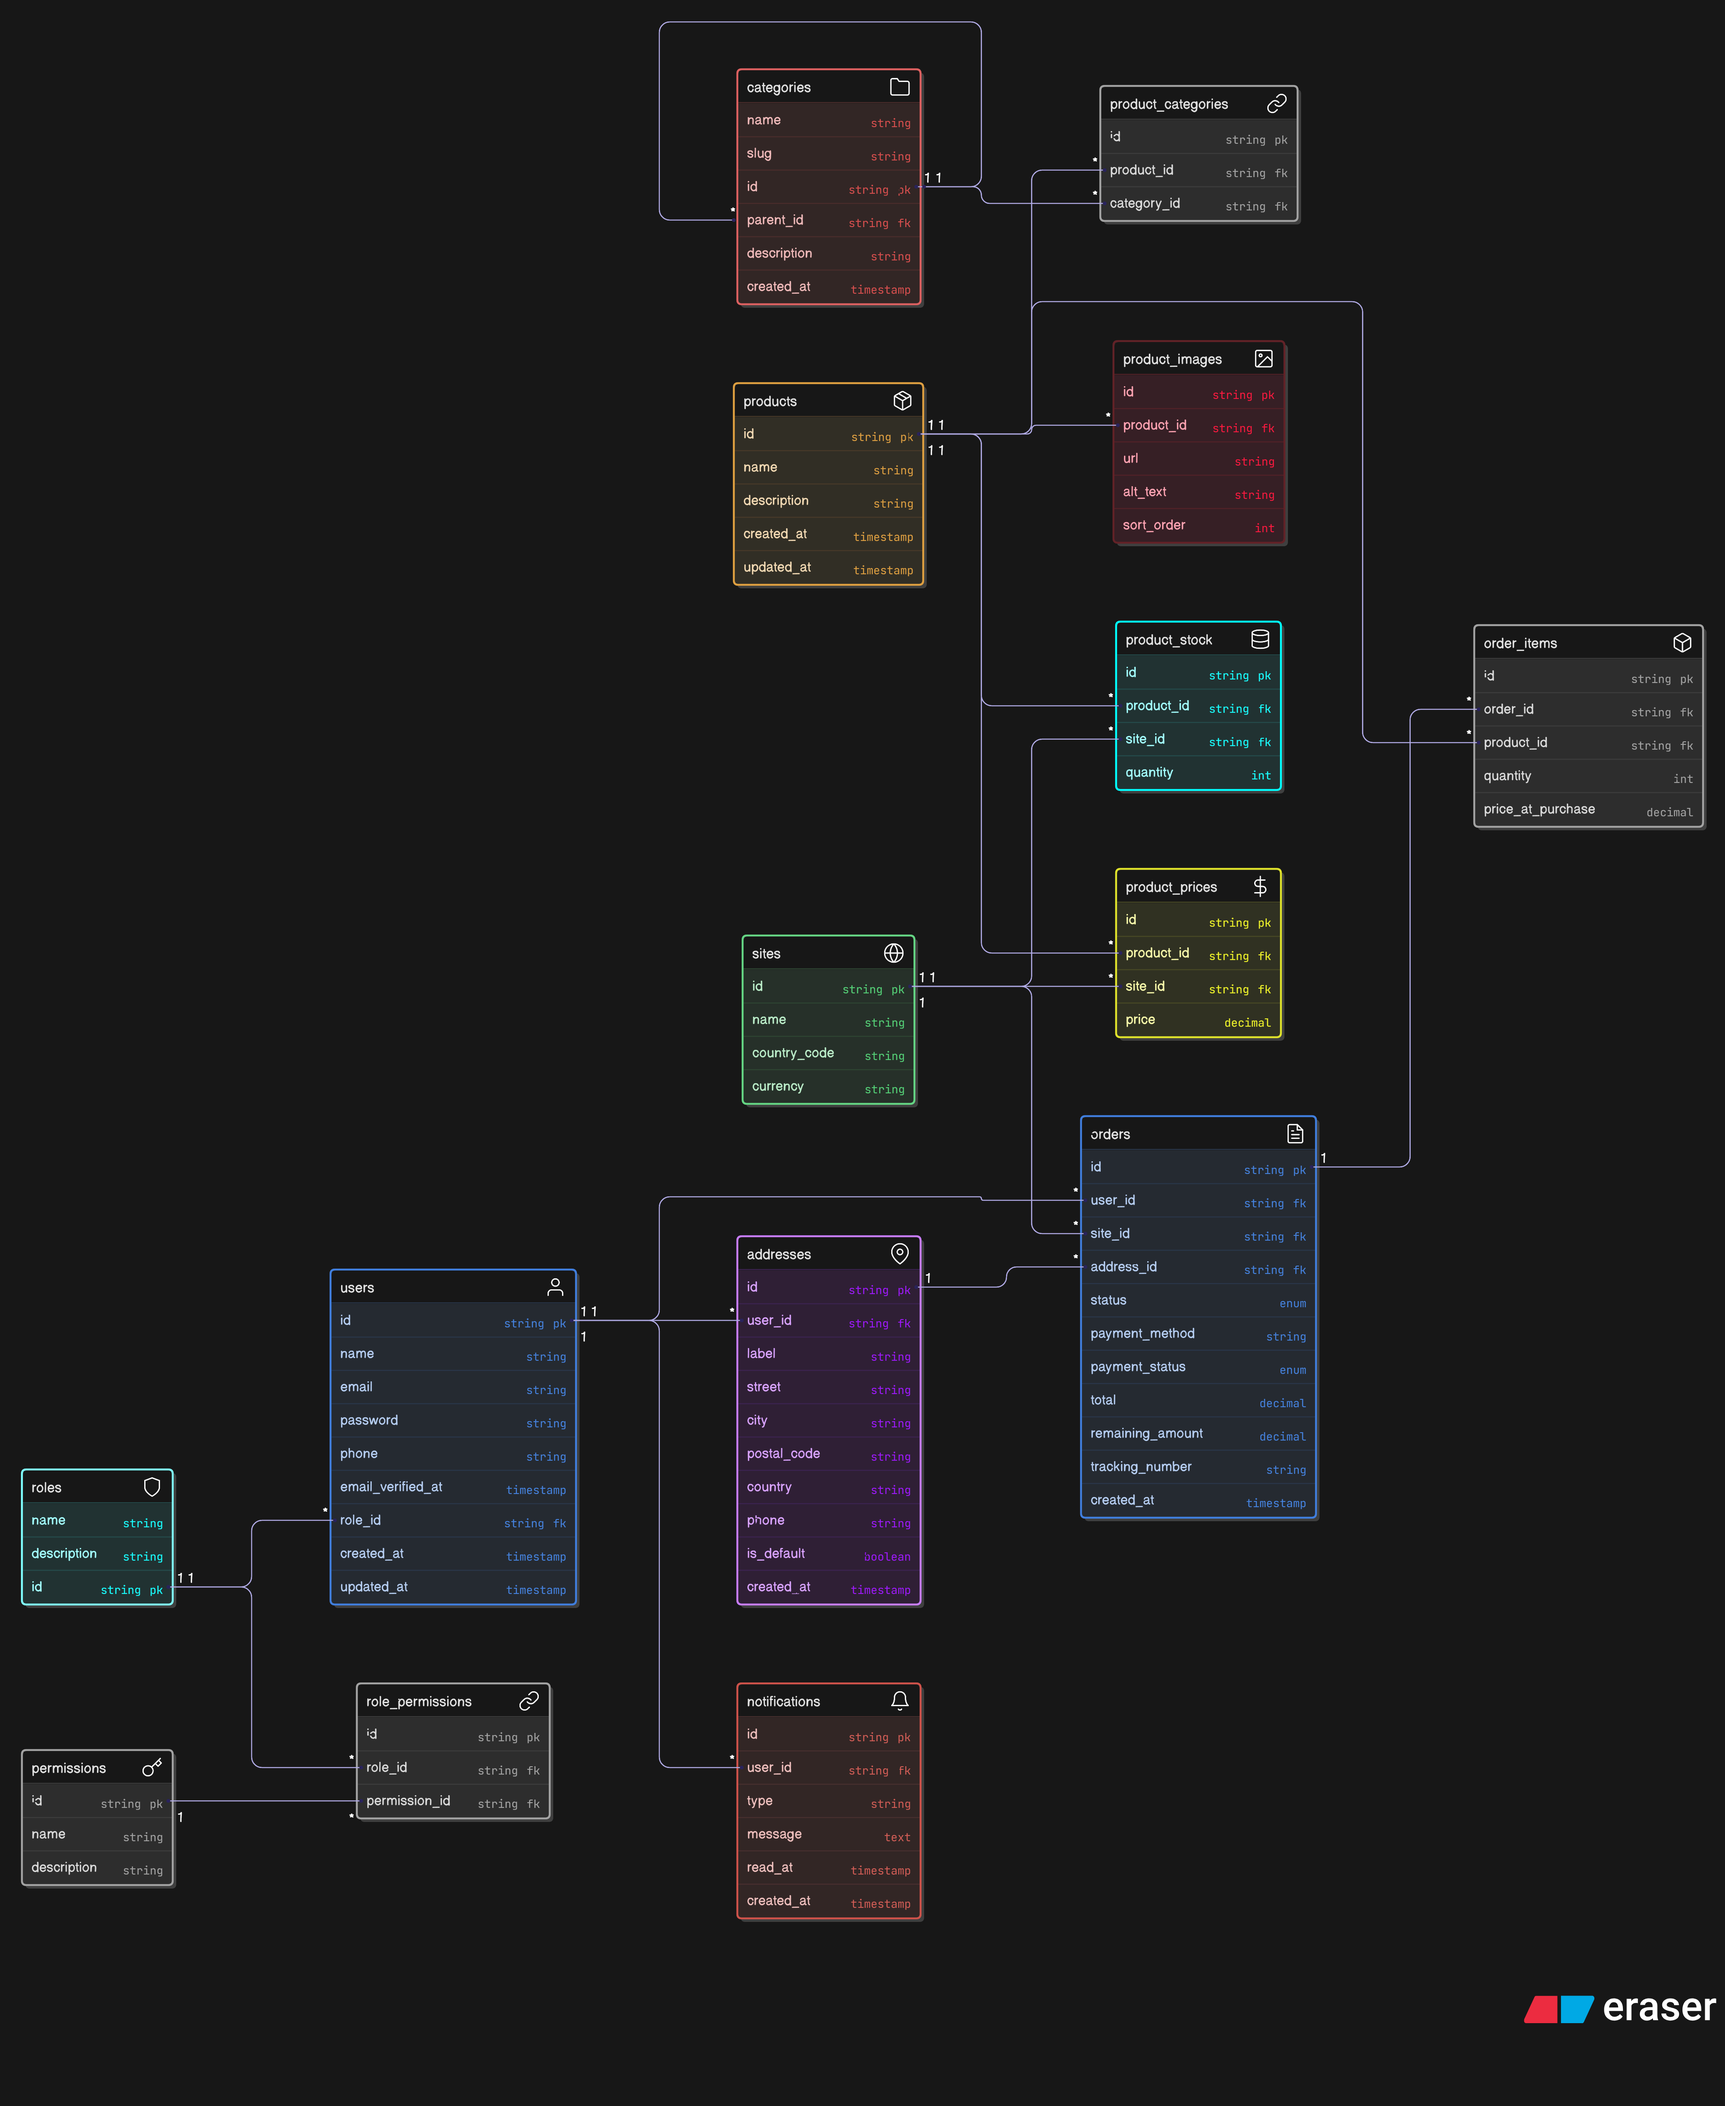
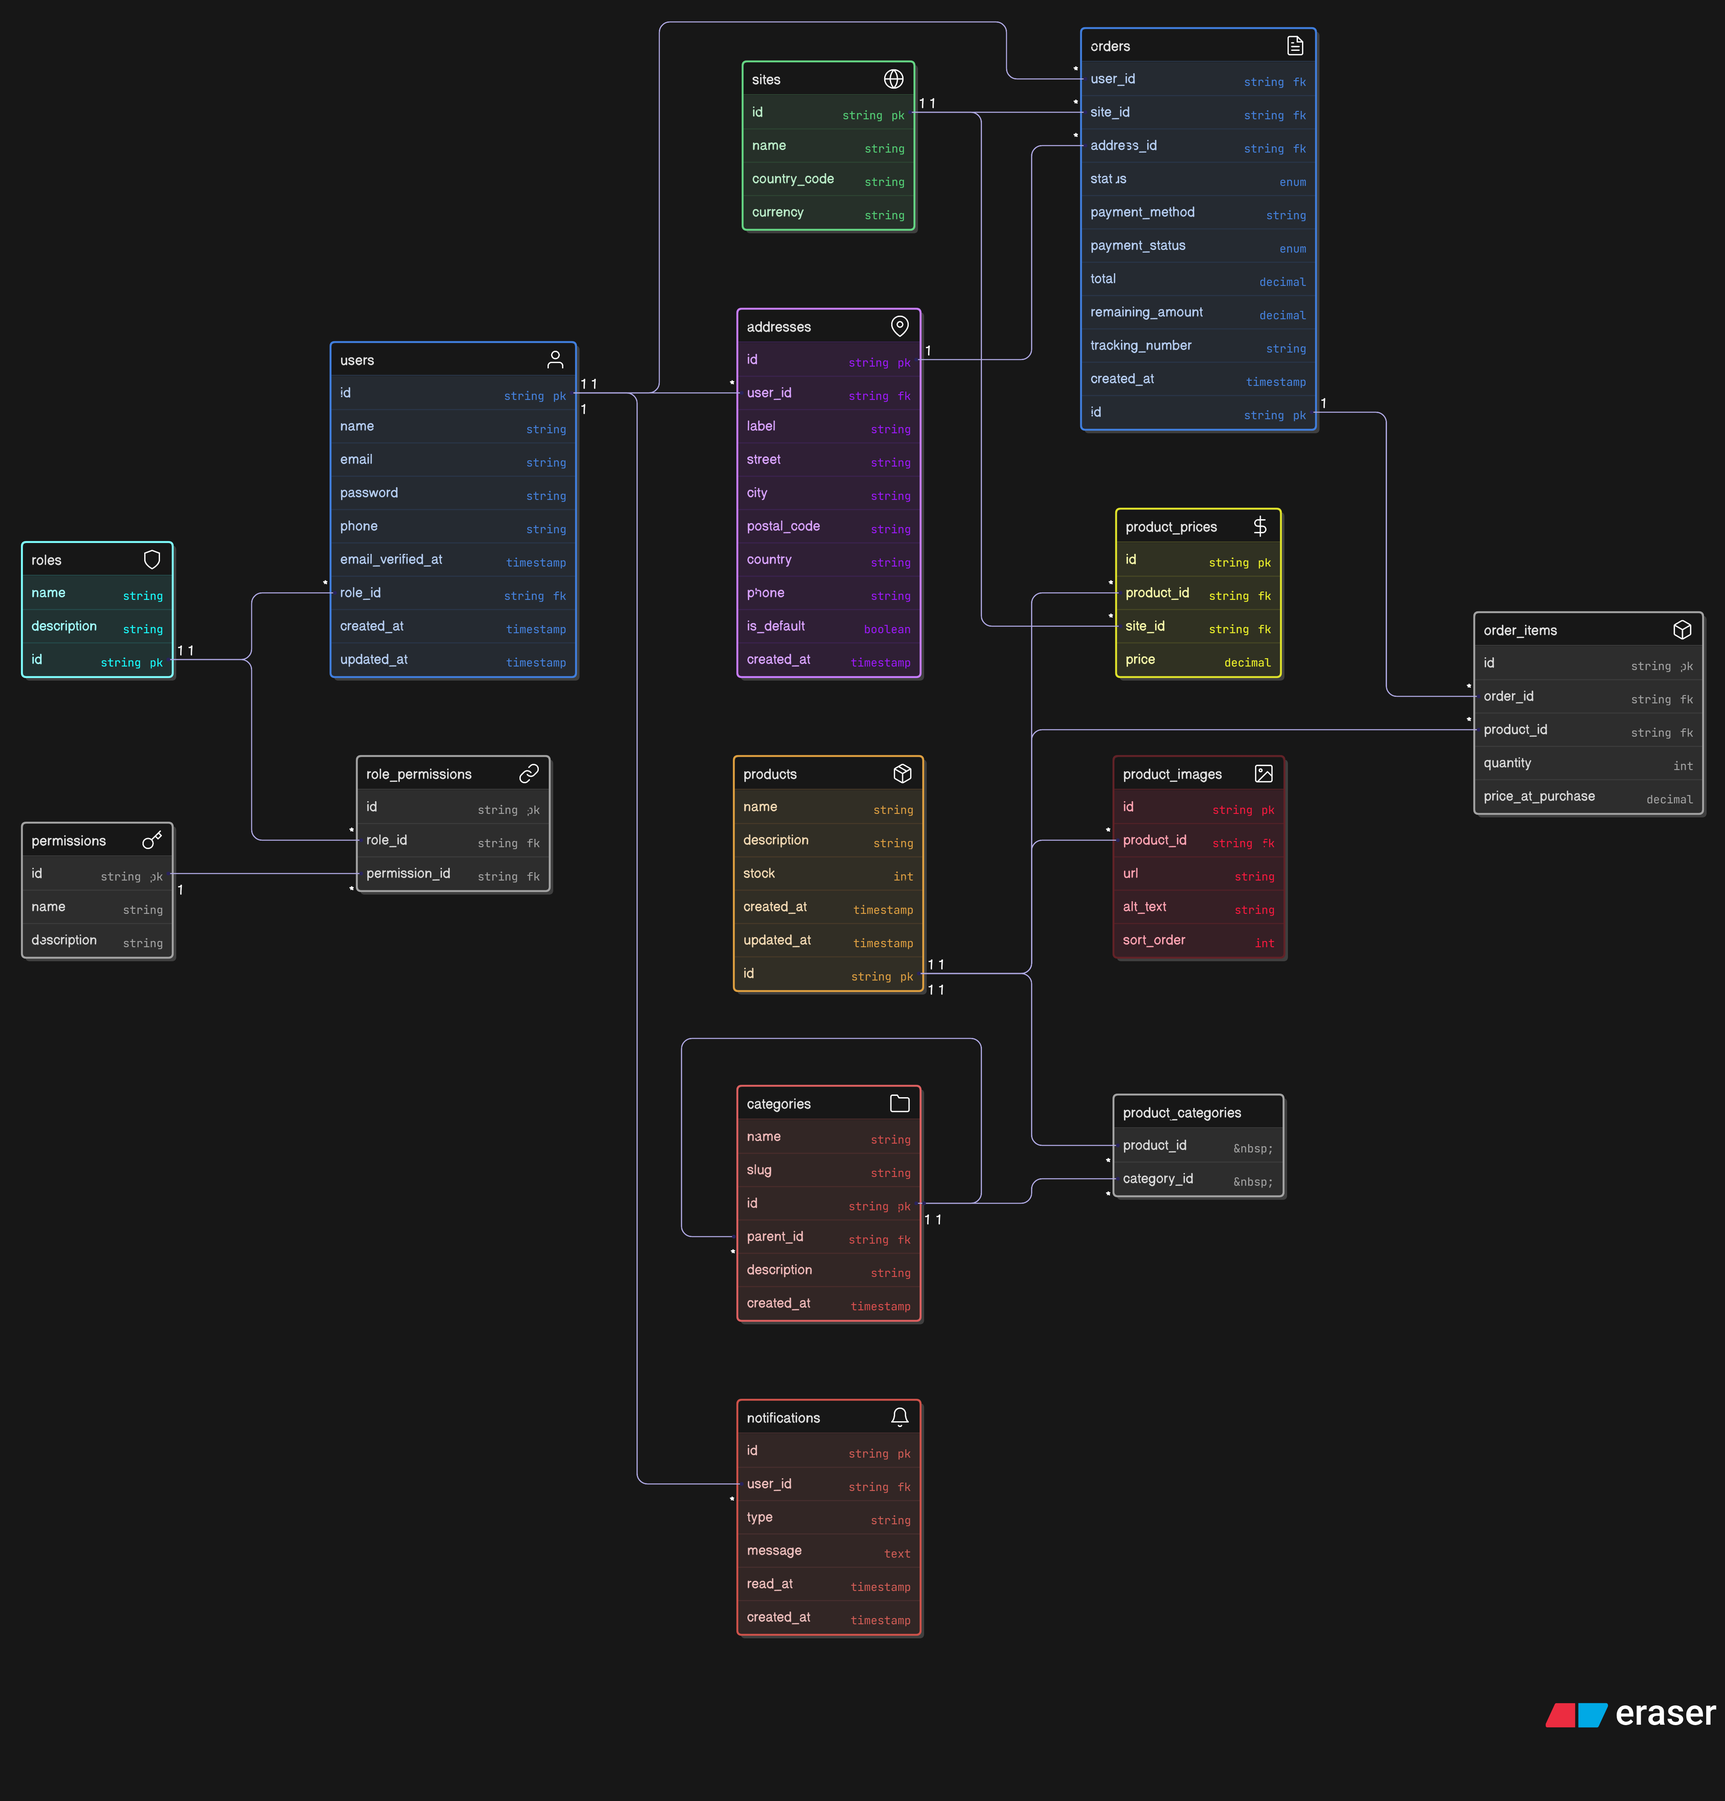
Update UML diagram for shared stock

diff --git a/src/app/Http/Requests/Profile/UpdatePasswordRequest.php b/src/app/Http/Requests/Profile/UpdatePasswordRequest.php
@@ -1,0 +1,28 @@
+<?php
+
+namespace App\Http\Requests\Profile;
+
+use Illuminate\Foundation\Http\FormRequest;
+
+class UpdatePasswordRequest extends FormRequest
+{
+    /**
+     * Determine if the user is authorized to make this request.
+     */
+    public function authorize(): bool
+    {
+        return false;
+    }
+
+    /**
+     * Get the validation rules that apply to the request.
+     *
+     * @return array<string, \Illuminate\Contracts\Validation\ValidationRule|array<mixed>|string>
+     */
+    public function rules(): array
+    {
+        return [
+            //
+        ];
+    }
+}

diff --git a/src/app/Http/Requests/Profile/UpdateProfileRequest.php b/src/app/Http/Requests/Profile/UpdateProfileRequest.php
@@ -1,0 +1,22 @@
+<?php
+
+namespace App\Http\Requests\Profile;
+
+use Illuminate\Foundation\Http\FormRequest;
+
+class UpdateProfileRequest extends FormRequest
+{
+    public function authorize(): bool
+    {
+        return true;
+    }
+
+    public function rules(): array
+    {
+        return [
+            'name' => 'sometimes|string|max:255',
+            'phone' => 'sometimes|string|max:20',
+            'email' => 'sometimes|email|unique:users,email,' . auth('api')->id(),
+        ];
+    }
+}
